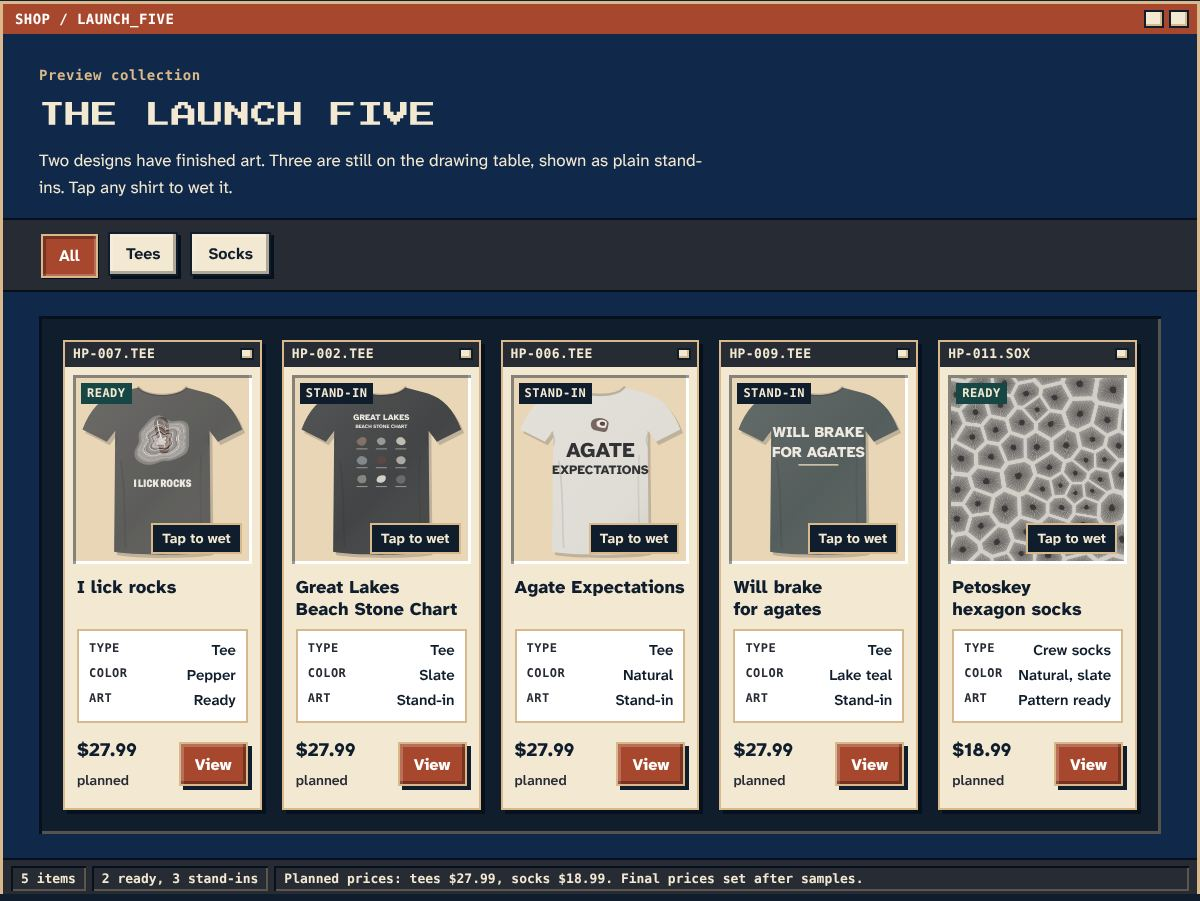
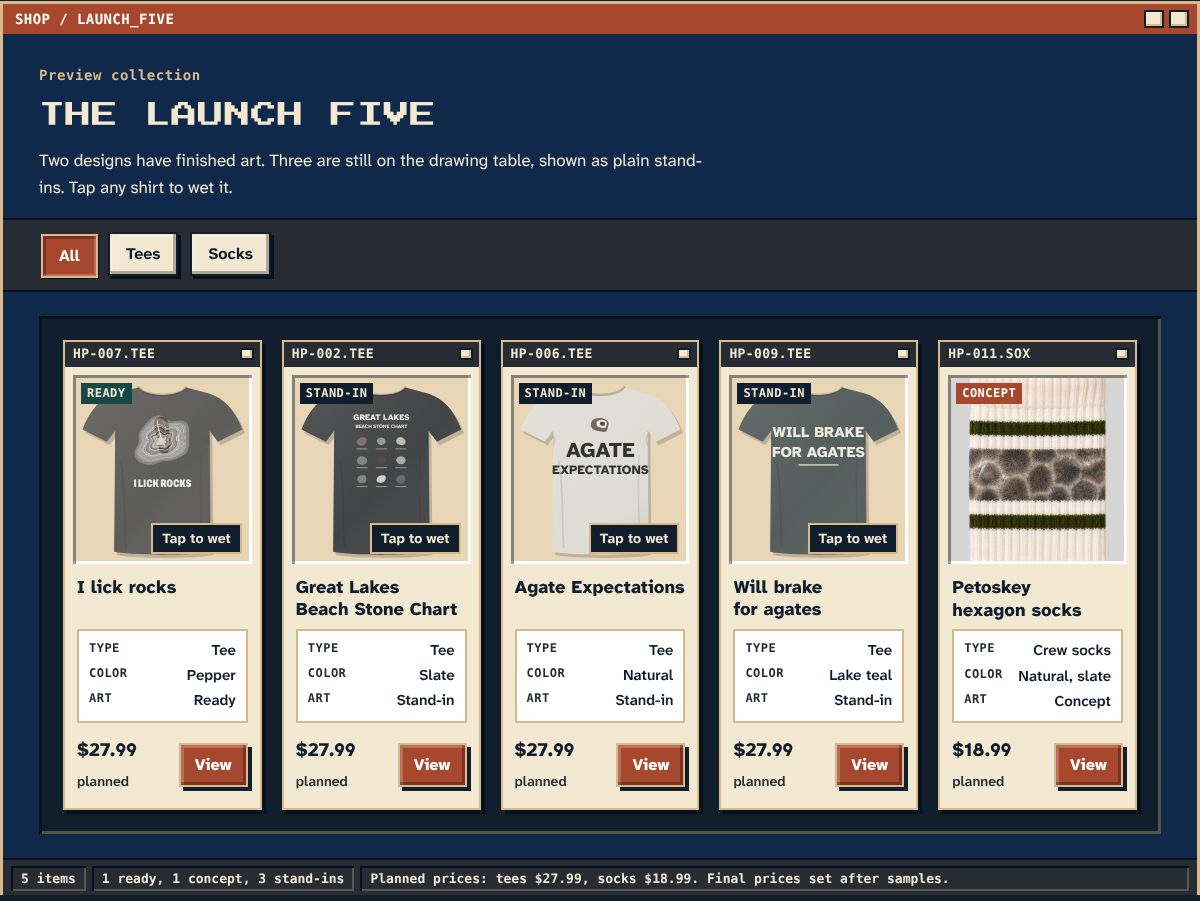
Use ChatGPT's agate pair and sock concept in the storefront
The wet test agate now swaps ChatGPT's matched dry and wet AI sample
images (identical outline). The socks card and viewer show the ChatGPT
sock concept, labeled as a concept. Credits in theme/v2/img/CREDITS.md.

Claude-Session: https://claude.ai/code/session_01AdWLFtHpwbtihYBfYsohYt

diff --git a/theme/v2/storefront.js b/theme/v2/storefront.js
@@ -5,6 +5,7 @@
 "use strict";
 
 var IMG = "../preview/img/"; // shared with the Step 11 preview (rewritten for the published copy)
+var OWN = "img/";            // images that live in theme/v2/img (ChatGPT concept and AI sample art)
 var NS = "http://www.w3.org/2000/svg";
 var uid = 0;
 function el(n,a){var e=document.createElementNS(NS,n);for(var k in a)e.setAttribute(k,a[k]);return e;}
@@ -173,9 +174,12 @@ document.addEventListener("click",function(e){
 /* ---------- 6. Shop filter ---------- */
 var filterBtns=$$("[data-filter]"),cards=$$(".item"),fstatus=$("#filter-status"),fcount=fstatus.nextElementSibling;
 function updateStatus(){
-  var shown=cards.filter(function(c){return !c.hidden;}),ready=shown.filter(function(c){return c.querySelector(".chip--ready");}).length;
+  var shown=cards.filter(function(c){return !c.hidden;});
+  function n(sel){return shown.filter(function(c){return c.querySelector(sel);}).length;}
+  var parts=[],r=n(".chip--ready"),k=n(".chip--concept"),s=shown.length-r-k;
+  if(r)parts.push(r+" ready");if(k)parts.push(k+" concept");if(s)parts.push(s+(s===1?" stand-in":" stand-ins"));
   fstatus.textContent=shown.length===cards.length?cards.length+" items":"Showing "+shown.length+" of "+cards.length+" items";
-  fcount.textContent=ready+" ready, "+(shown.length-ready)+(shown.length-ready===1?" stand-in":" stand-ins");
+  fcount.textContent=parts.join(", ");
 }
 filterBtns.forEach(function(btn){
   btn.addEventListener("click",function(){
@@ -207,7 +211,7 @@ var PRODUCTS={
     note:"For the driver who knows every gravel pull-off between here and the lake.",
     details:["Printed in the US when you order.","Art in progress, so it cannot be added to the cart yet."]},
   socks:{no:"HP-011",name:"Petoskey hexagon socks",price:"$18.99",priceNote:"Planned price. Final price set after samples.",
-    colors:["Natural","Slate"],sizes:["S","M","L"],ready:true,media:"socks",mediaNote:"Flat pattern preview. Sock mockups come with the samples.",
+    colors:["Natural","Slate"],sizes:["S","M","L"],ready:true,media:"socks",mediaNote:"Concept image made in ChatGPT. A printed sock is matte, not glossy, and its stripes are printed, not knitted. Real photos come from the Printify sample.",
     note:"An all-over Petoskey cell pattern drawn by code, so no two cells are quite the same.",
     details:["All-over printed crew socks, made in the US to order.","Sized S, M, and L.","Printify notes that side seams can show on dark designs; we will check the sample."]}
 };
@@ -221,7 +225,10 @@ function optHTML(name,value,checked,swatch){
 }
 var SWATCH={Pepper:"#4A4B47",Slate:"#24323D",Natural:"#E2DACA","Lake teal":"#1F5653"};
 function sockMedia(color){
-  var file=color==="Slate"?"socks_slate.jpg":"socks_natural.jpg";
+  if(color!=="Slate"){
+    return '<span class="concept concept--viewer"><img src="'+OWN+'petoskey-sock-concept.webp" alt="Concept image of a cream ribbed crew sock with two olive stripes and a band of Petoskey stone pattern" width="1060" height="1484"></span>';
+  }
+  var file="socks_slate.jpg";
   return '<button class="wet hoverable" type="button" aria-pressed="false" aria-label="Wet the Petoskey sock pattern in '+color.toLowerCase()+'">'+
     '<span class="wet-media socks-one"><img src="'+IMG+file+'" alt="Petoskey hexagon sock pattern in '+color.toLowerCase()+'" width="720" height="720"></span>'+
     '<span class="wet-hint" aria-hidden="true"><span class="is-dry">Tap to wet</span><span class="is-wet">Wet. Tap to dry.</span></span></button>';
@@ -252,7 +259,10 @@ function showProduct(id){
 pv.colors.addEventListener("change",function(e){
   if(e.target.name!=="color")return;
   $("#pv-color-name").textContent=e.target.value;
-  if(PRODUCTS[current].media==="socks"){pv.media.innerHTML=sockMedia(e.target.value);}
+  if(PRODUCTS[current].media==="socks"){
+    pv.media.innerHTML=sockMedia(e.target.value);
+    pv.mediaNote.textContent=e.target.value==="Slate"?"Flat pattern preview in slate. No concept image for this color yet.":PRODUCTS.socks.mediaNote;
+  }
 });
 document.addEventListener("click",function(e){
   var a=e.target.closest&&e.target.closest("[data-view]");
@@ -293,6 +303,15 @@ cartBtn.addEventListener("click",function(){if(dlg.showModal)dlg.showModal();els
 $("#cart-close").addEventListener("click",function(){if(dlg.close)dlg.close();else dlg.removeAttribute("open");});
 dlg.addEventListener("click",function(e){if(e.target===dlg)dlg.close();});
 
+/* the agate dry and wet images share one outline (identical alpha), so swapping
+   them never changes the stone's shape; only the surface goes from dusty to wet */
+function photoPair(){
+  var w=document.createElement("span");w.className="photo-pair";
+  w.innerHTML='<img class="pp-dry" src="'+OWN+'agate-hero-dry.webp" alt="AI sample of a dry Lake Superior agate: a dusty, muted rust-red pebble with faint bands" width="1280" height="1024">'+
+    '<img class="pp-wet" src="'+OWN+'agate-hero-wet.webp" alt="" aria-hidden="true" width="1280" height="1024">';
+  return w;
+}
+
 /* ---------- 9. Wet test: tabs, splash button, and a small specimen log ---------- */
 var tabs=$$("[data-stone-tab]"),panel=$("#lab-panel"),labStone=$("#lab-stone"),labMedia=$("#lab-media"),splash=$("#lab-splash");
 var wetted={},drawn={};
@@ -301,11 +320,15 @@ function selectStone(kind,focus){
   tabs.forEach(function(t){var on=t.dataset.stoneTab===kind;t.setAttribute("aria-selected",String(on));t.tabIndex=on?0:-1;if(on&&focus)t.focus();});
   panel.setAttribute("aria-labelledby","tab-"+kind);
   var s=STONES[kind];
-  if(!drawn[kind])drawn[kind]=stone(kind);
+  if(!drawn[kind])drawn[kind]=kind==="agate"?photoPair():stone(kind);
   labMedia.innerHTML="";labMedia.appendChild(drawn[kind]);
   labStone.dataset.kind=kind;
+  labStone.classList.toggle("is-photo",kind==="agate");
+  $("#lab-credit").textContent=kind==="agate"?
+    "AI sample made in ChatGPT, not a photo of a real find. The wet image is an edit of the dry one, so the stone does not change.":
+    "Code-drawn stand-in, not a photo. Wet and dry are the same drawing.";
   labStone.setAttribute("aria-pressed","false");
-  labStone.setAttribute("aria-label","Wet the "+s.name+" drawing");
+  labStone.setAttribute("aria-label","Wet the "+s.name+(kind==="agate"?" sample image":" drawing"));
   $("#lab-name").textContent=s.name;$("#lab-dry").textContent=s.dry;$("#lab-wet").textContent=s.wet;$("#lab-aside").textContent=s.aside;
   syncSplash();
 }

diff --git a/theme/v2/index.html b/theme/v2/index.html
@@ -171,18 +171,15 @@
       <article class="item" data-kind="socks" data-id="socks">
         <div class="item__bar"><span class="mono">HP-011.SOX</span><span class="ctrls" aria-hidden="true"><i></i></span></div>
         <div class="item__well">
-          <span class="chip chip--ready">READY</span>
-          <button class="wet hoverable" type="button" aria-pressed="false" aria-label="Wet the Petoskey hexagon sock pattern">
-            <span class="wet-media socks-one"><img src="../preview/img/socks_natural.jpg" alt="Petoskey hexagon sock pattern in natural gray" width="720" height="720" loading="lazy"></span>
-            <span class="wet-hint" aria-hidden="true"><span class="is-dry">Tap to wet</span><span class="is-wet">Wet</span></span>
-          </button>
+          <span class="chip chip--concept">CONCEPT</span>
+          <span class="concept"><img src="img/petoskey-sock-concept.webp" alt="Concept image of a cream ribbed crew sock with two olive stripes and a band of Petoskey stone pattern" width="1060" height="1484" loading="lazy"></span>
         </div>
         <div class="item__body">
           <h3>Petoskey hexagon socks</h3>
           <dl class="stats">
             <div><dt>TYPE</dt><dd>Crew socks</dd></div>
             <div><dt>COLOR</dt><dd>Natural, slate</dd></div>
-            <div><dt>ART</dt><dd>Pattern ready</dd></div>
+            <div><dt>ART</dt><dd>Concept</dd></div>
           </dl>
           <div class="item__foot">
             <p class="price">$18.99 <small>planned</small></p>
@@ -273,7 +270,7 @@
             <span class="wet-hint" aria-hidden="true"><span class="is-dry">Tap to wet</span><span class="is-wet">Wet</span></span>
           </button>
         </div>
-        <p class="standin">Code-drawn stand-ins, not photos. Wet and dry are the same drawing.</p>
+        <p class="standin" id="lab-credit">AI sample made in ChatGPT, not a photo of a real find. The wet image is an edit of the dry one, so the stone does not change.</p>
       </div>
       <div>
         <h3 id="lab-name">Lake Superior agate</h3>

diff --git a/theme/v2/storefront.css b/theme/v2/storefront.css
@@ -211,6 +211,11 @@ h1,h2,h3{margin:0;line-height:1.25;text-wrap:balance}
 .item__well .wet{padding:3px}
 .chip{position:absolute;z-index:4;left:8px;top:8px;padding:2px 6px;background:var(--hp-ink);color:var(--hp-cream);font:700 12px/1.4 var(--hp-font-metadata);letter-spacing:.04em}
 .chip--ready{background:var(--hp-teal)}
+.chip--concept{background:var(--hp-rust);color:var(--hp-white)}
+/* concept product images: shown as is, never "wetted" (a printed sock is matte) */
+.concept{display:block;aspect-ratio:1/1.06;padding:3px}
+.concept img{display:block;width:100%;height:100%;object-fit:cover;object-position:50% 52%}
+.concept--viewer{aspect-ratio:1/1}
 .item__body{display:flex;flex-direction:column;gap:8px;flex:1;padding:12px 12px 14px}
 .item h3{font-size:18px;font-weight:800;line-height:1.25;min-height:2.5em}
 .stats{display:grid;gap:2px;margin:0;padding:8px 10px;background:var(--hp-white);border:2px solid var(--hp-sand)}
@@ -292,6 +297,14 @@ h1,h2,h3{margin:0;line-height:1.25;text-wrap:balance}
 .tray .wet-media svg{display:block;width:100%;height:100%}
 .tray .wet-hint{right:50%;transform:translateX(50%);bottom:14px}
 .tray .wet::after{display:none}
+/* real-image pair: no blob mask, no filter; the wet image fades in over the dry one */
+.tray .wet.is-photo{border-radius:0;max-width:440px}
+.tray .wet.is-photo .wet-media{aspect-ratio:1280/1024;filter:none!important}
+.photo-pair{position:relative;display:block;width:100%;height:100%}
+.photo-pair img{position:absolute;inset:0;width:100%;height:100%;object-fit:contain}
+.photo-pair .pp-wet{opacity:0;transition:opacity .45s ease-out}
+.wet[aria-pressed="true"] .photo-pair .pp-wet{opacity:1}
+@media (prefers-reduced-motion:reduce){.photo-pair .pp-wet{transition:none}}
 .lab h3{font-size:24px;font-weight:800;margin-bottom:10px}
 .lab dl{display:grid;grid-template-columns:auto 1fr;gap:8px 14px;margin:0 0 18px}
 .lab dt{font:700 14px/1.6 var(--hp-font-metadata);color:var(--hp-sand)}

diff --git a/CLAUDE.md b/CLAUDE.md
@@ -145,3 +145,4 @@ Fact idea: Leland Blue is slag from a 19th-century iron smelter in Leland, Michi
 - **2026-11-05:** Brian approved the hero and accepted the art accuracy flags as is. PR #1 merged into `step4-overnight-build` (not `main`, not deployed).
 - **2026-11-05 (later):** Merged PR #2 (locked palette and fonts) into a new branch `storefront/v2-retro-integration` and built the full storefront preview in `theme/v2/` with the retro button system. 45 browser checks and a contrast check pass. Old preview untouched. Next: Brian reviews on his phone and iPad.
 - **2026-11-05 (later):** Brian asked for the shop to match the retro style (products stay placeholders). Reworked it as one 90s file window: toolbar with filters, sunken pane, each product as a small window (title bar turns rust when active) with a stats box, and a live status bar. Product viewer image got the same sunken frame. 45 browser checks pass (an earlier note said 45 when it was 44; one check was added).
+- **2026-11-05 (later):** Brian asked to use ChatGPT's images. Copied the ChatGPT agate dry/wet AI sample pair and the Petoskey sock concept into `theme/v2/img/` (credits in `img/CREDITS.md`). Agate in the wet test now cross-fades the pair; socks card and viewer show the concept with a CONCEPT label. Tees, Petoskey, and Leland stones stay as before (no ChatGPT images for them in the repo).

diff --git a/theme/v2/img/CREDITS.md b/theme/v2/img/CREDITS.md
@@ -1,0 +1,11 @@
+# theme/v2/img credits
+
+Copied byte for byte from branch `claude/gifted-clarke-u7rlbp` (`site/prototype/assets/`), where the full history is in `site/prototype/IMAGE_CREDITS.md`.
+
+| File | Source | Status |
+|---|---|---|
+| `agate-hero-dry.webp` | ChatGPT image generation (revision 3, Nov 2, 2026), muted to read matte by Claude's `scripts/matte_dry.py` (Nov 3). Pixels not moved; outline identical to the wet image. | AI SAMPLE. Not a real find. Replace with Brian's own dry photo. |
+| `agate-hero-wet.webp` | ChatGPT image edit of the dry source, registered to the same outline (Nov 2, 2026). | AI SAMPLE. Replace with Brian's wet photo of the same stone. |
+| `petoskey-sock-concept.webp` | ChatGPT image generation supplied by Brian (Nov 3, 2026), band glints reduced by Claude's `scripts/matte_band.py`. | Concept only. A printed sock is matte and its stripes are printed. Replace with a Printify sample photo. |
+
+Brian's reference photos guided the agate's look only. They are not copied, traced, or published here.
